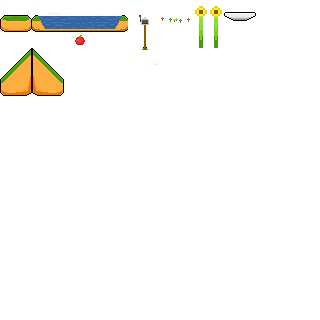
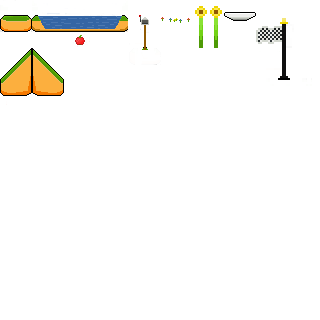
ran

Changed region(s): [[0.7812, 0.0625, 0.9062, 0.25]]

diff --git a/core/src/main/java/com/niko/littlepiggy/world/MapManager.java b/core/src/main/java/com/niko/littlepiggy/world/MapManager.java
@@ -49,7 +49,8 @@ public class MapManager {
     public void createCollisions(World world) {
 
         for (MapLayer layer : map.getLayers()) {
-            if ("Apples".equals(layer.getName()) || "Farmers".equals(layer.getName())) {
+            if ("Apples".equals(layer.getName()) || "Farmers".equals(layer.getName())
+                    || "Goal".equals(layer.getName())) {
                 continue;
             }
             if (!(layer instanceof TiledMapTileLayer)) {
@@ -95,6 +96,60 @@ public class MapManager {
                 }
             }
         }
+    }
+
+    public Goal createGoal(World world) {
+
+        MapLayer layer = map.getLayers().get("Goal");
+
+        if (!(layer instanceof TiledMapTileLayer)) {
+            return null;
+        }
+
+        TiledMapTileLayer goalLayer = (TiledMapTileLayer) layer;
+
+        float tileWidth = goalLayer.getTileWidth();
+        float tileHeight = goalLayer.getTileHeight();
+
+        for (int x = 0; x < goalLayer.getWidth(); x++) {
+
+            for (int y = 0; y < goalLayer.getHeight(); y++) {
+
+                TiledMapTileLayer.Cell cell = goalLayer.getCell(x, y);
+
+                if (cell == null) {
+                    continue;
+                }
+
+                TiledMapTile tile = cell.getTile();
+
+                if (tile == null) {
+                    continue;
+                }
+
+                float worldX = (x * tileWidth + tileWidth / 2f)
+                        / PPM;
+
+                float worldY = (y * tileHeight + tileHeight / 2f)
+                        / PPM;
+
+                Goal goal = new Goal(
+                        world,
+                        tile.getTextureRegion(),
+                        worldX,
+                        worldY);
+
+                /*
+                 * Java-Goal tar över renderingen.
+                 * Annars skulle Tiled också rita bilden.
+                 */
+                goalLayer.setCell(x, y, null);
+
+                return goal;
+            }
+        }
+
+        return null;
     }
 
     private void createCollisionForObject(

diff --git a/core/src/main/java/com/niko/littlepiggy/screen/GameScreen.java b/core/src/main/java/com/niko/littlepiggy/screen/GameScreen.java
@@ -6,6 +6,7 @@ import com.badlogic.gdx.graphics.g2d.SpriteBatch;
 import com.badlogic.gdx.utils.ScreenUtils;
 import com.badlogic.gdx.utils.Array;
 
+import com.niko.littlepiggy.world.Goal;
 import com.niko.littlepiggy.ui.HealthBarRenderer;
 import com.niko.littlepiggy.projectile.Pellet;
 import com.niko.littlepiggy.projectile.ProjectileManager;
@@ -27,6 +28,7 @@ public class GameScreen extends BaseScreen {
 
     private final Main game;
     private final String mapName;
+    private final Goal goal;
 
     private final PhysicsManager physics;
     private final MapManager mapManager;
@@ -58,6 +60,8 @@ public class GameScreen extends BaseScreen {
 
         mapManager = new MapManager(mapName);
         mapManager.createCollisions(physics.getWorld());
+        goal = mapManager.createGoal(
+                physics.getWorld());
 
         player = new Player(physics.getWorld(), 9, 11, game.getAssets());
 
@@ -89,6 +93,11 @@ public class GameScreen extends BaseScreen {
             game.setScreen(
                     new GameOverScreen(game, mapName));
 
+            dispose();
+            return;
+        }
+        if (goal != null && goal.isReached()) {
+            game.setScreen(new GameOverScreen(game, mapName));
             dispose();
             return;
         }
@@ -140,6 +149,9 @@ public class GameScreen extends BaseScreen {
         }
         for (Apple apple : apples) {
             apple.render(batch);
+        }
+        if (goal != null) {
+            goal.render(batch);
         }
 
         batch.end();

diff --git a/core/src/main/java/com/niko/littlepiggy/world/Goal.java b/core/src/main/java/com/niko/littlepiggy/world/Goal.java
@@ -1,0 +1,61 @@
+package com.niko.littlepiggy.world;
+
+import com.badlogic.gdx.graphics.g2d.Sprite;
+import com.badlogic.gdx.graphics.g2d.SpriteBatch;
+import com.badlogic.gdx.graphics.g2d.TextureRegion;
+import com.badlogic.gdx.physics.box2d.*;
+
+public class Goal {
+
+    private final Sprite sprite;
+    private final Body body;
+
+    private boolean reached;
+
+    public Goal(
+            World world,
+            TextureRegion texture,
+            float x,
+            float y) {
+
+        sprite = new Sprite(texture);
+        sprite.setSize(1f, 1f);
+
+        sprite.setPosition(
+                x - sprite.getWidth() / 2f,
+                y - sprite.getHeight() / 2f);
+
+        BodyDef bodyDef = new BodyDef();
+        bodyDef.type = BodyDef.BodyType.StaticBody;
+        bodyDef.position.set(x, y);
+
+        body = world.createBody(bodyDef);
+
+        PolygonShape shape = new PolygonShape();
+
+        shape.setAsBox(
+                0.4f,
+                0.5f);
+
+        FixtureDef fixtureDef = new FixtureDef();
+        fixtureDef.shape = shape;
+        fixtureDef.isSensor = true;
+
+        Fixture fixture = body.createFixture(fixtureDef);
+        fixture.setUserData(this);
+
+        shape.dispose();
+    }
+
+    public void reach() {
+        reached = true;
+    }
+
+    public boolean isReached() {
+        return reached;
+    }
+
+    public void render(SpriteBatch batch) {
+        sprite.draw(batch);
+    }
+}

diff --git a/core/src/main/java/com/niko/littlepiggy/physics/GameContactListener.java b/core/src/main/java/com/niko/littlepiggy/physics/GameContactListener.java
@@ -1,5 +1,6 @@
 package com.niko.littlepiggy.physics;
 
+import com.niko.littlepiggy.world.Goal;
 import com.niko.littlepiggy.projectile.Projectile;
 import com.niko.littlepiggy.player.Player;
 import com.niko.littlepiggy.enemy.Farmer;
@@ -31,6 +32,7 @@ public class GameContactListener implements ContactListener {
         checkGroundContact(contact, a, b, true);
         checkFarmerRange(a, b, true);
         checkAppleContact(a, b);
+        checkGoalContact(a, b);
     }
 
     @Override
@@ -62,6 +64,33 @@ public class GameContactListener implements ContactListener {
             player.beginGroundContact();
         } else {
             player.endGroundContact();
+        }
+    }
+
+    private void checkGoalContact(
+            Fixture a,
+            Fixture b) {
+
+        if (a.getUserData() instanceof Goal
+                && b.getBody().getUserData() instanceof Player) {
+
+            Goal goal = (Goal) a.getUserData();
+
+            if (!goal.isReached()) {
+                goal.reach();
+                System.out.println("GOAL REACHED!");
+            }
+        }
+
+        if (b.getUserData() instanceof Goal
+                && a.getBody().getUserData() instanceof Player) {
+
+            Goal goal = (Goal) b.getUserData();
+
+            if (!goal.isReached()) {
+                goal.reach();
+                System.out.println("GOAL REACHED!");
+            }
         }
     }
 
